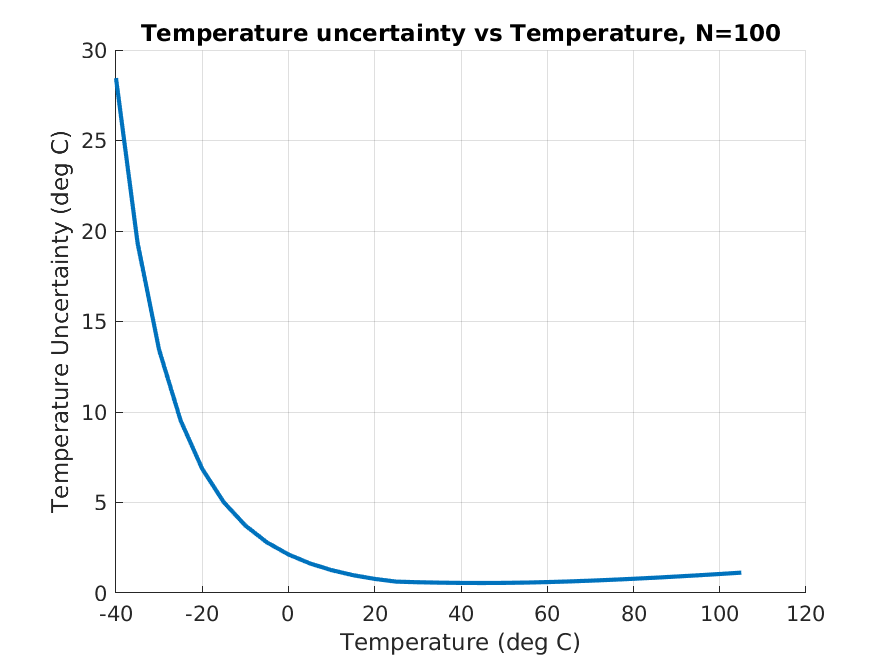
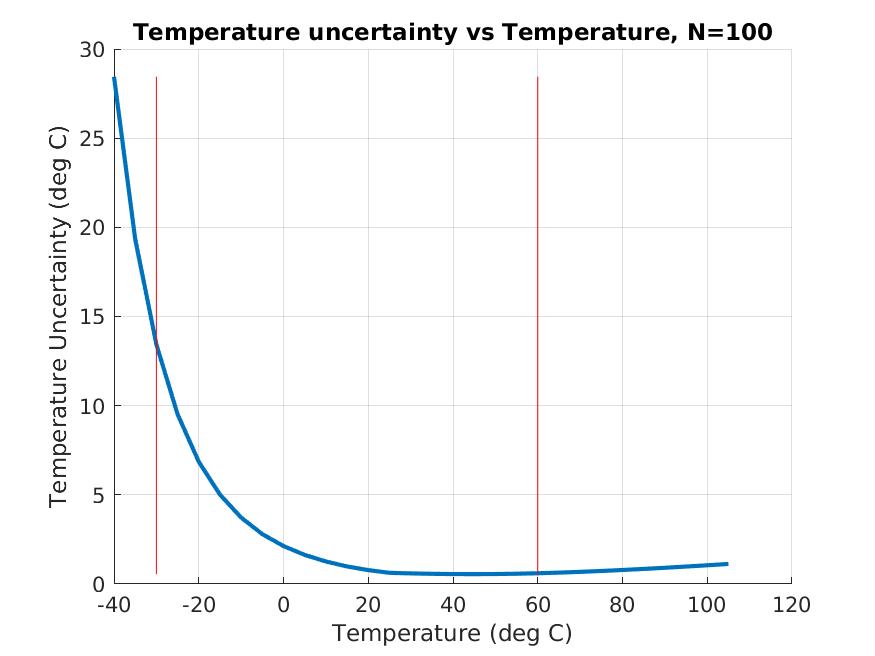
I don't even remember what's what anymore

diff --git a/calculations/thermistor.m b/calculations/thermistor.m
@@ -95,18 +95,18 @@ print(f, 'images/deg_c_per_bin_vs_temperature', '-dpng')
 
 % Error analysis
 %% N = number of samples, t = coeff for 95% condfidence interval
-% N = 1; t = 12.71;
+N = 1; t = 12.71;
 % N = 3; t = 3.128;
 % N = 10; t = 2.228;
-N = 100; t = 1.984;
+% N = 100; t = 1.984;
 
-Rth_bias = Rth .* (data(:, 4)./100); % Deviation from correct (percent err times ohms)
-R1_error  = R1 * 0.01; % 1% error
-Vin_error = 0.001;     % 1mV? TODO
+Rth_bias   = Rth .* (data(:, 4)./100); % Deviation from correct (percent err times ohms)
+R1_error   = R1 * 0.01; % 1% error
+Vin_error  = 0.001;     % 1mV? TODO
 Vout_error = 0.004 .* Vout; % (-0.6% to +0.1%) + 1 mV noise
 Vout_noise = 0.001;     % 1 mV
-B25_error = 0.01 * B25; % 1%, Kelvin
-R25_error = 0.01 * R25; % 1%, Ohms
+B25_error  = 0.01 * B25; % 1%, Kelvin
+R25_error  = 0.01 * R25; % 1%, Ohms
 
 dRthdVin  = -R1 ./ (Vout .* (Vin./Vout - 1).^2);
 dRthdVout = R1*Vin ./ ((Vin./Vout - 1).^2 .* Vout.^2);
@@ -153,6 +153,8 @@ title(sprintf('Temperature uncertainty vs Temperature, N=%d', N))
 xlabel('Temperature (deg C)');
 ylabel('Temperature Uncertainty (deg C)');
 plot(temps, T_Unc, 'linewidth', 2)
+plot([Tmin Tmin], [min(T_Unc) max(T_Unc)], 'r');
+plot([Tmax Tmax], [min(T_Unc) max(T_Unc)], 'r');
 print(f, sprintf('images/temp_uncertainty_vs_temp_N%d', N), '-dpng')
 
 

diff --git a/calculations/timeconstant.m b/calculations/timeconstant.m
@@ -1,0 +1,9 @@
+clear all; clc; close all;
+
+FILE = './time_constant_data.xlsx';
+
+data = xlsread(FILE);
+time = data(:, 1);
+temp = data(:, 2);
+
+plot(time, temp);
